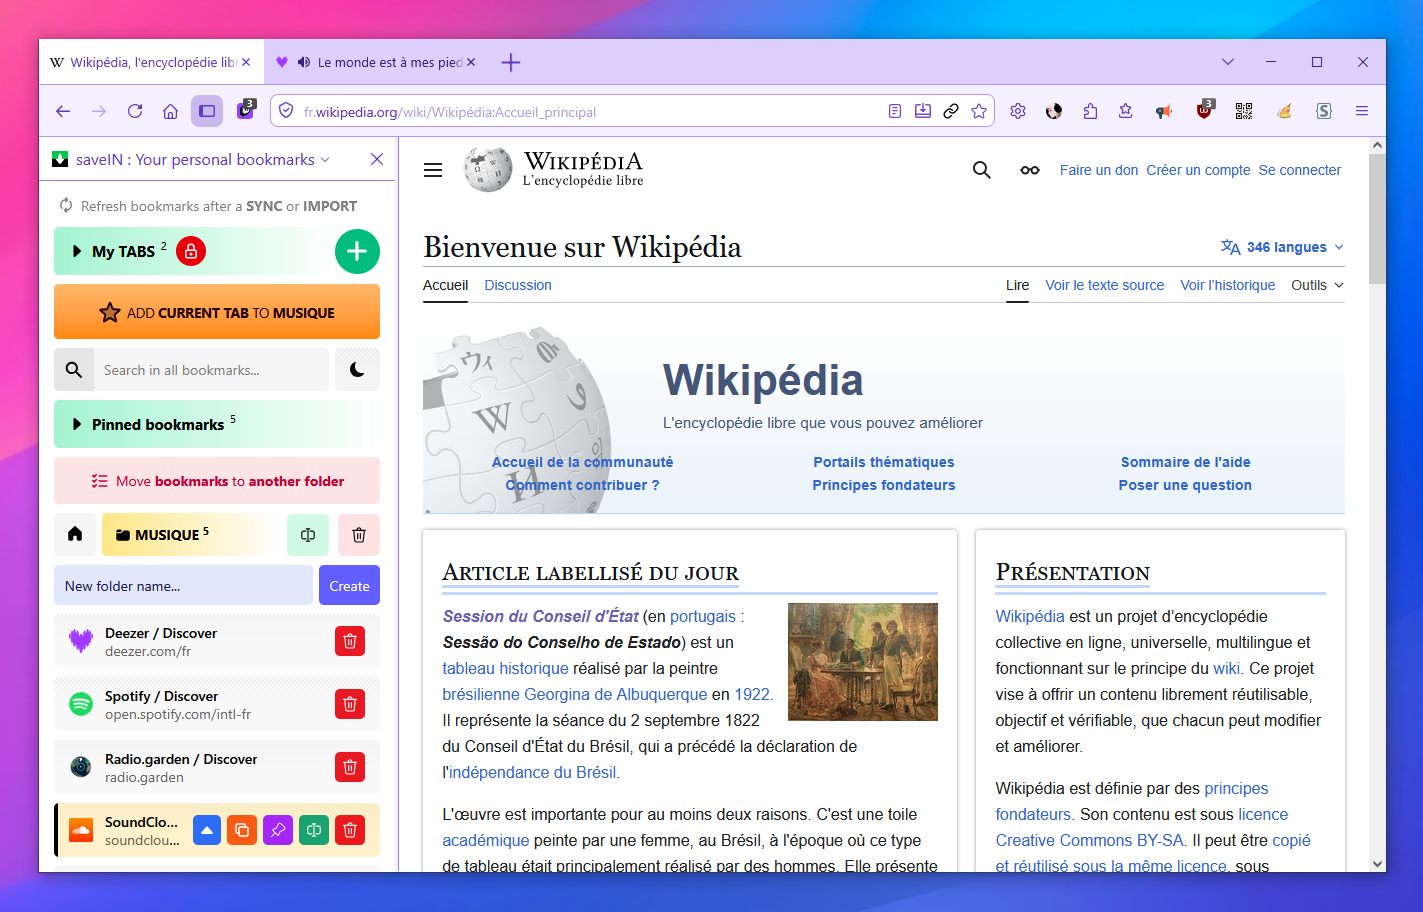
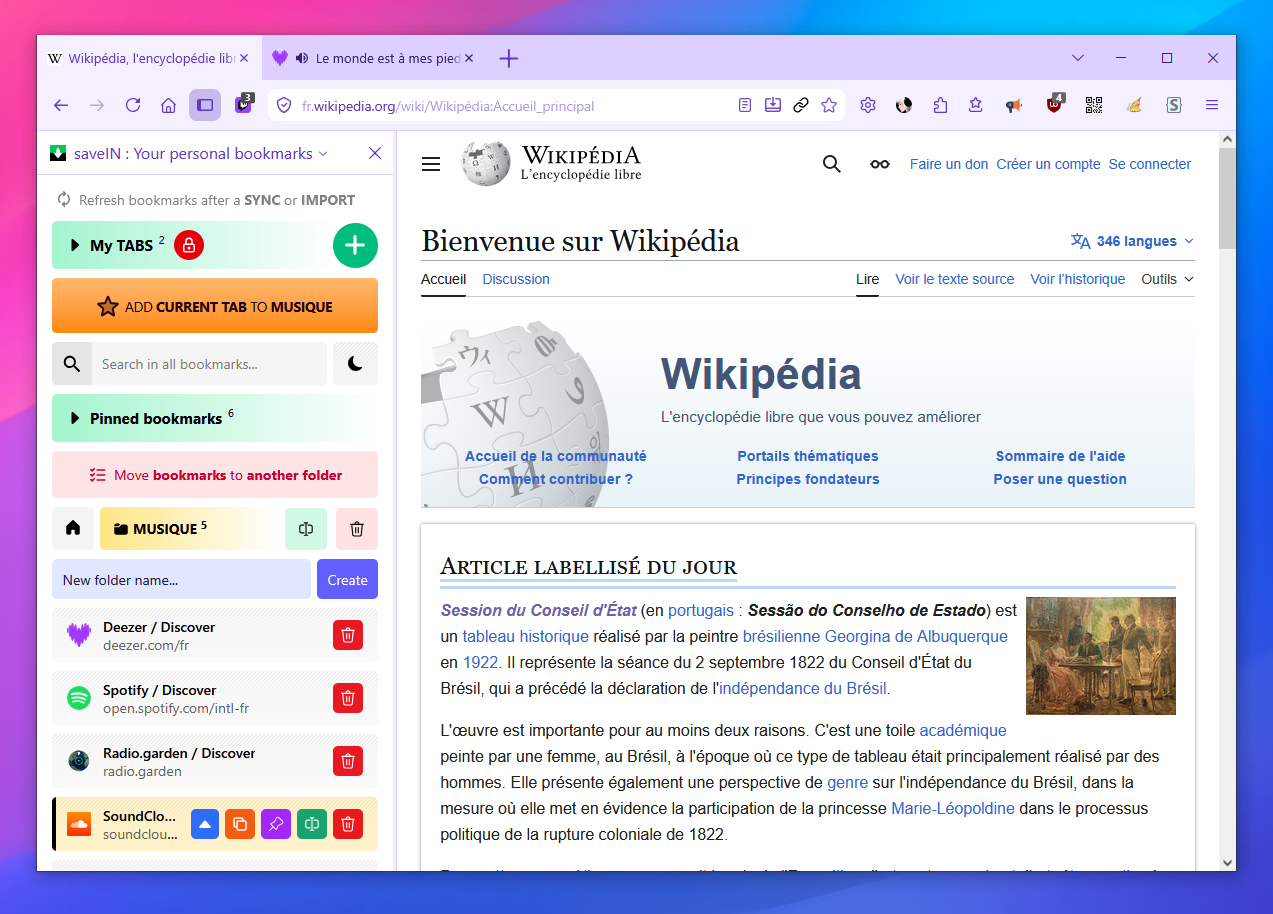
Update

Changed region(s): [[0.0, 0.0, 1.0, 0.9825]]

diff --git a/README.md b/README.md
@@ -4,7 +4,7 @@
 
 ![preview](preview/preview.png)  
 <br>
-In this screenshot I use this theme [https://addons.mozilla.org/fr/firefox/addon/profiles_violet](https://addons.mozilla.org/fr/firefox/addon/profiles_violet)  
+In this screenshot I use this theme [https://addons.mozilla.org/en-US/firefox/addon/profilevioletcolor](https://addons.mozilla.org/en-US/firefox/addon/profilevioletcolor)  
 The add-on in sidebar is [saveIN : Your personal bookmarks](https://addons.mozilla.org/en-US/firefox/addon/savein), enjoy !
 
 ## 💾 INSTALL
@@ -29,11 +29,9 @@ The add-on in sidebar is [saveIN : Your personal bookmarks](https://addons.mozil
 ## Some themes that fit well with classic tabs :  
 * [https://addons.mozilla.org/en-US/firefox/addon/whitewindow](https://addons.mozilla.org/en-US/firefox/addon/whitewindow)  
 * [https://addons.mozilla.org/en-US/firefox/addon/microsoft-windows-xp1](https://addons.mozilla.org/en-US/firefox/addon/microsoft-windows-xp1)  
-* [https://addons.mozilla.org/en-US/firefox/addon/horizon3000](https://addons.mozilla.org/en-US/firefox/addon/horizon3000)  
-* [https://addons.mozilla.org/fr/firefox/addon/profiles_blue](https://addons.mozilla.org/fr/firefox/addon/profiles_blue)  
-* [https://addons.mozilla.org/fr/firefox/addon/profiles_cyan](https://addons.mozilla.org/fr/firefox/addon/profiles_cyan)  
-* [https://addons.mozilla.org/fr/firefox/addon/profiles_green](https://addons.mozilla.org/fr/firefox/addon/profiles_green)  
-* [https://addons.mozilla.org/fr/firefox/addon/profiles_orange](https://addons.mozilla.org/fr/firefox/addon/profiles_orange)  
-* [https://addons.mozilla.org/fr/firefox/addon/profiles_pink](https://addons.mozilla.org/fr/firefox/addon/profiles_pink)  
-* [https://addons.mozilla.org/fr/firefox/addon/profiles_purple](https://addons.mozilla.org/fr/firefox/addon/profiles_purple)  
-* [https://addons.mozilla.org/fr/firefox/addon/profiles_red](https://addons.mozilla.org/fr/firefox/addon/profiles_red)  
+* [https://addons.mozilla.org/en-US/firefox/addon/profilepinkcolor](https://addons.mozilla.org/en-US/firefox/addon/profilepinkcolor)  
+* [https://addons.mozilla.org/en-US/firefox/addon/profilegreencolor](https://addons.mozilla.org/en-US/firefox/addon/profilegreencolor)  
+* [https://addons.mozilla.org/en-US/firefox/addon/profileredcolor](https://addons.mozilla.org/en-US/firefox/addon/profileredcolor)  
+* [https://addons.mozilla.org/en-US/firefox/addon/profileorangecolor](https://addons.mozilla.org/en-US/firefox/addon/profileorangecolor)  
+* [https://addons.mozilla.org/en-US/firefox/addon/profilebluecolor](https://addons.mozilla.org/en-US/firefox/addon/profilebluecolor)  
+* [https://addons.mozilla.org/en-US/firefox/addon/profilevioletcolor](https://addons.mozilla.org/en-US/firefox/addon/profilevioletcolor)   